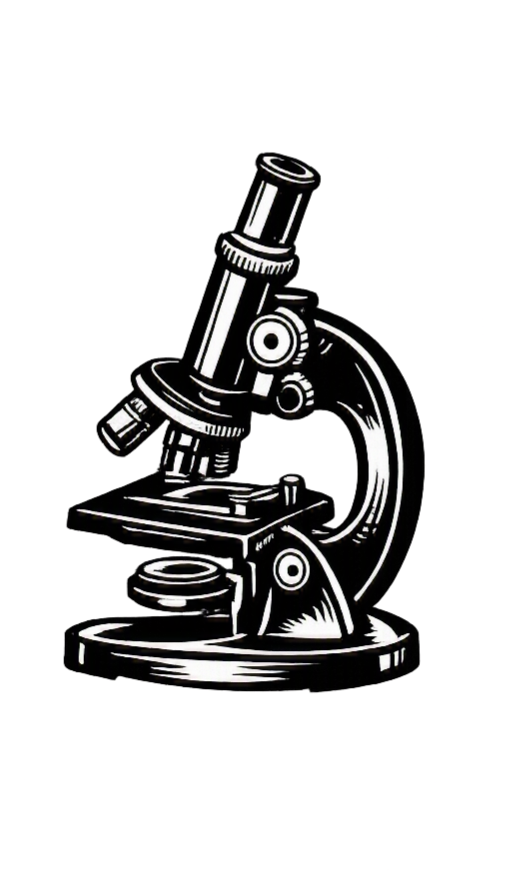
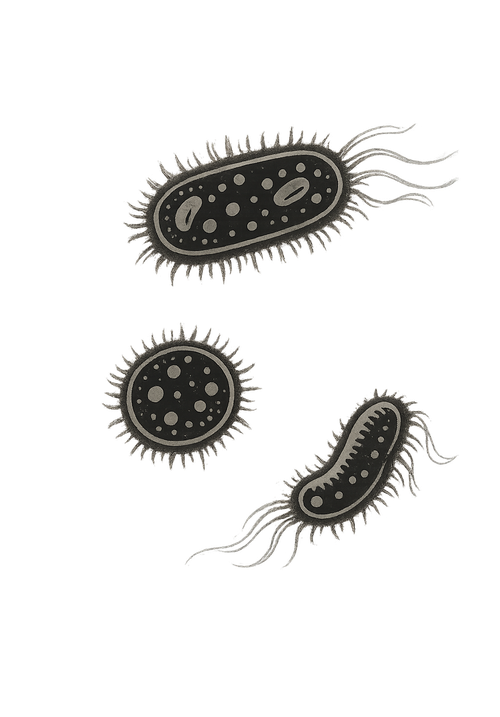
Add files via upload

Changed region(s): [[0.12, 0.1534, 0.9, 0.7978]]

diff --git a/assets/css/style.css b/assets/css/style.css
@@ -113,23 +113,23 @@ a:focus-visible, button:focus-visible {
 .hero-bg-icon {
   position: absolute;
   z-index: 0;
-  opacity: 0.5;
+  opacity: 0.55;
   pointer-events: none;
 }
 
 .hero-bg-microscope {
-  width: 300px;
+  width: 260px;
   height: auto;
-  top: 0px;
-  right: 30px;
+  top: 10px;
+  right: 40px;
 }
 
 .hero-bg-dna {
-  width: 210px;
+  width: 170px;
   height: auto;
-  bottom: -20px;
+  top: 340px;
   right: 10px;
-  opacity: 0.4;
+  opacity: 0.45;
 }
 
 @media (max-width: 900px) {
@@ -184,6 +184,13 @@ a:focus-visible, button:focus-visible {
   opacity: 0.92;
 }
 
+.icon-bacteria-side {
+  width: 150px;
+  height: auto;
+  margin: 18px 0 0 -6px;
+  opacity: 0.85;
+}
+
 @media (max-width: 640px) {
   .hero-grid {
     grid-template-columns: 1fr;
@@ -192,6 +199,7 @@ a:focus-visible, button:focus-visible {
     width: 170px;
     margin: 0 auto 8px;
   }
+  .icon-bacteria-side { display: none; }
 }
 
 .eyebrow {

diff --git a/index.html b/index.html
@@ -22,8 +22,8 @@ title: Home
     </g>
   </svg>
 
-  <img class="hero-bg-icon hero-bg-microscope" src="{{ '/assets/img/microscope-tint.png' | relative_url }}" alt="">
-  <img class="hero-bg-icon hero-bg-dna" src="{{ '/assets/img/dna-tint.png' | relative_url }}" alt="">
+  <img class="hero-bg-icon hero-bg-microscope" src="{{ '/assets/img/microscope.png' | relative_url }}" alt="">
+  <img class="hero-bg-icon hero-bg-dna" src="{{ '/assets/img/dna.png' | relative_url }}" alt="">
 
   <div class="wrap hero-grid">
     <div class="hero-photo-col">
@@ -43,6 +43,7 @@ title: Home
           </g>
         </svg>
       </div>
+      <img class="icon-accent icon-bacteria-side" src="{{ '/assets/img/bacteria.png' | relative_url }}" alt="">
     </div>
 
     <div class="hero-content">